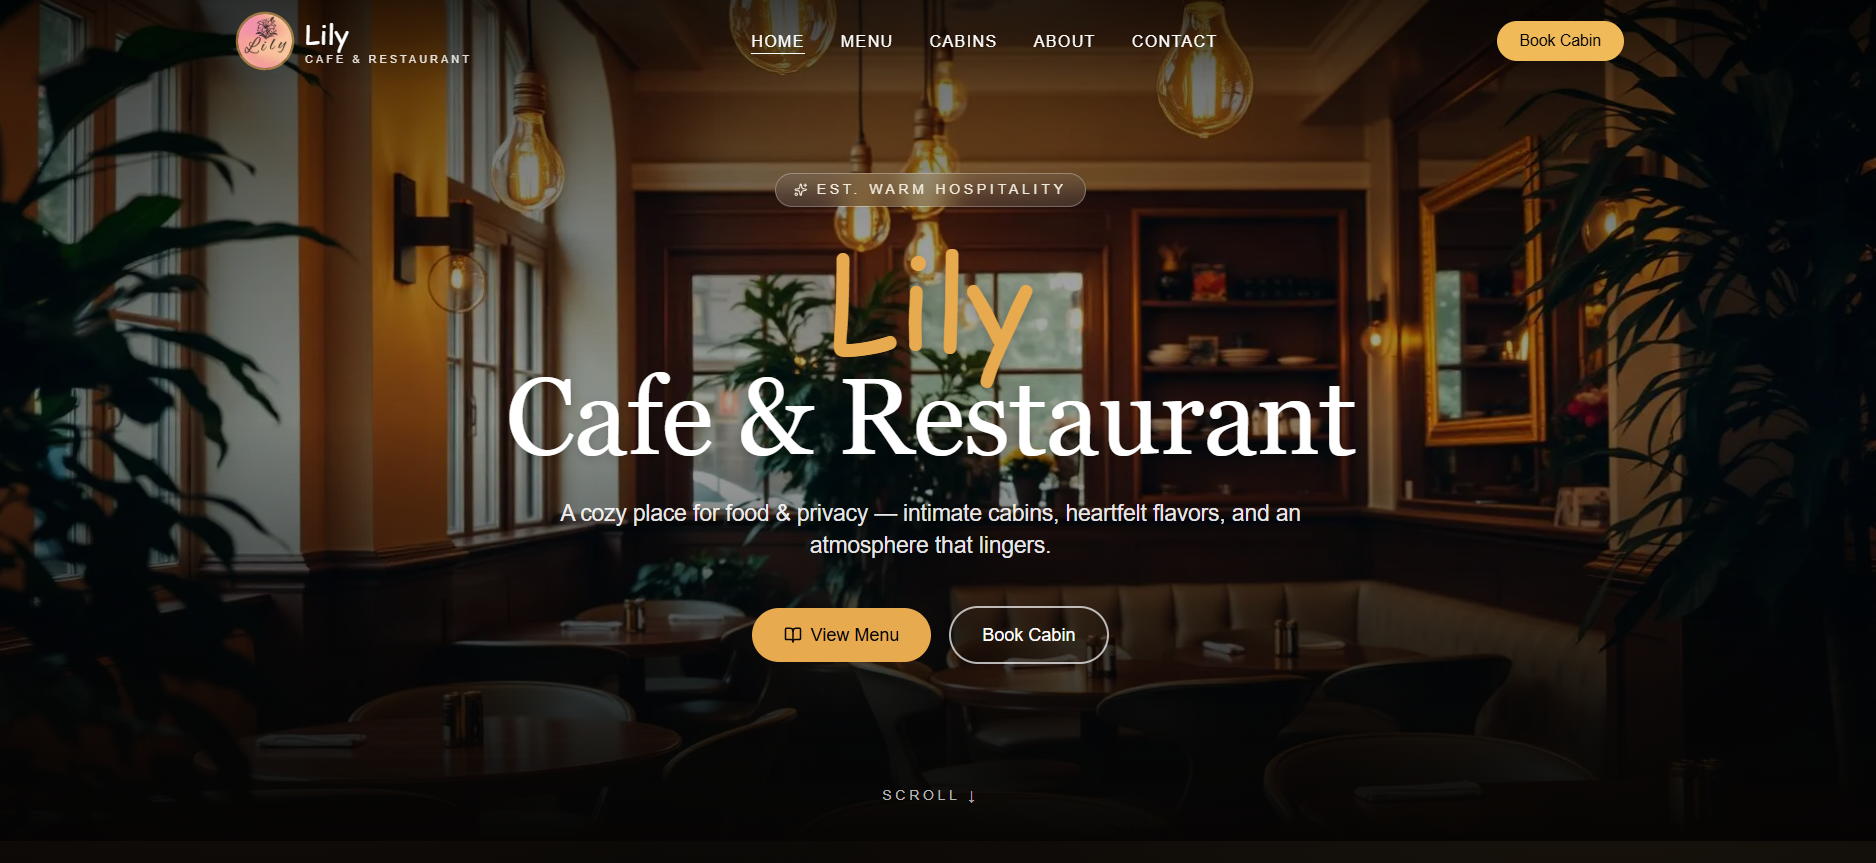
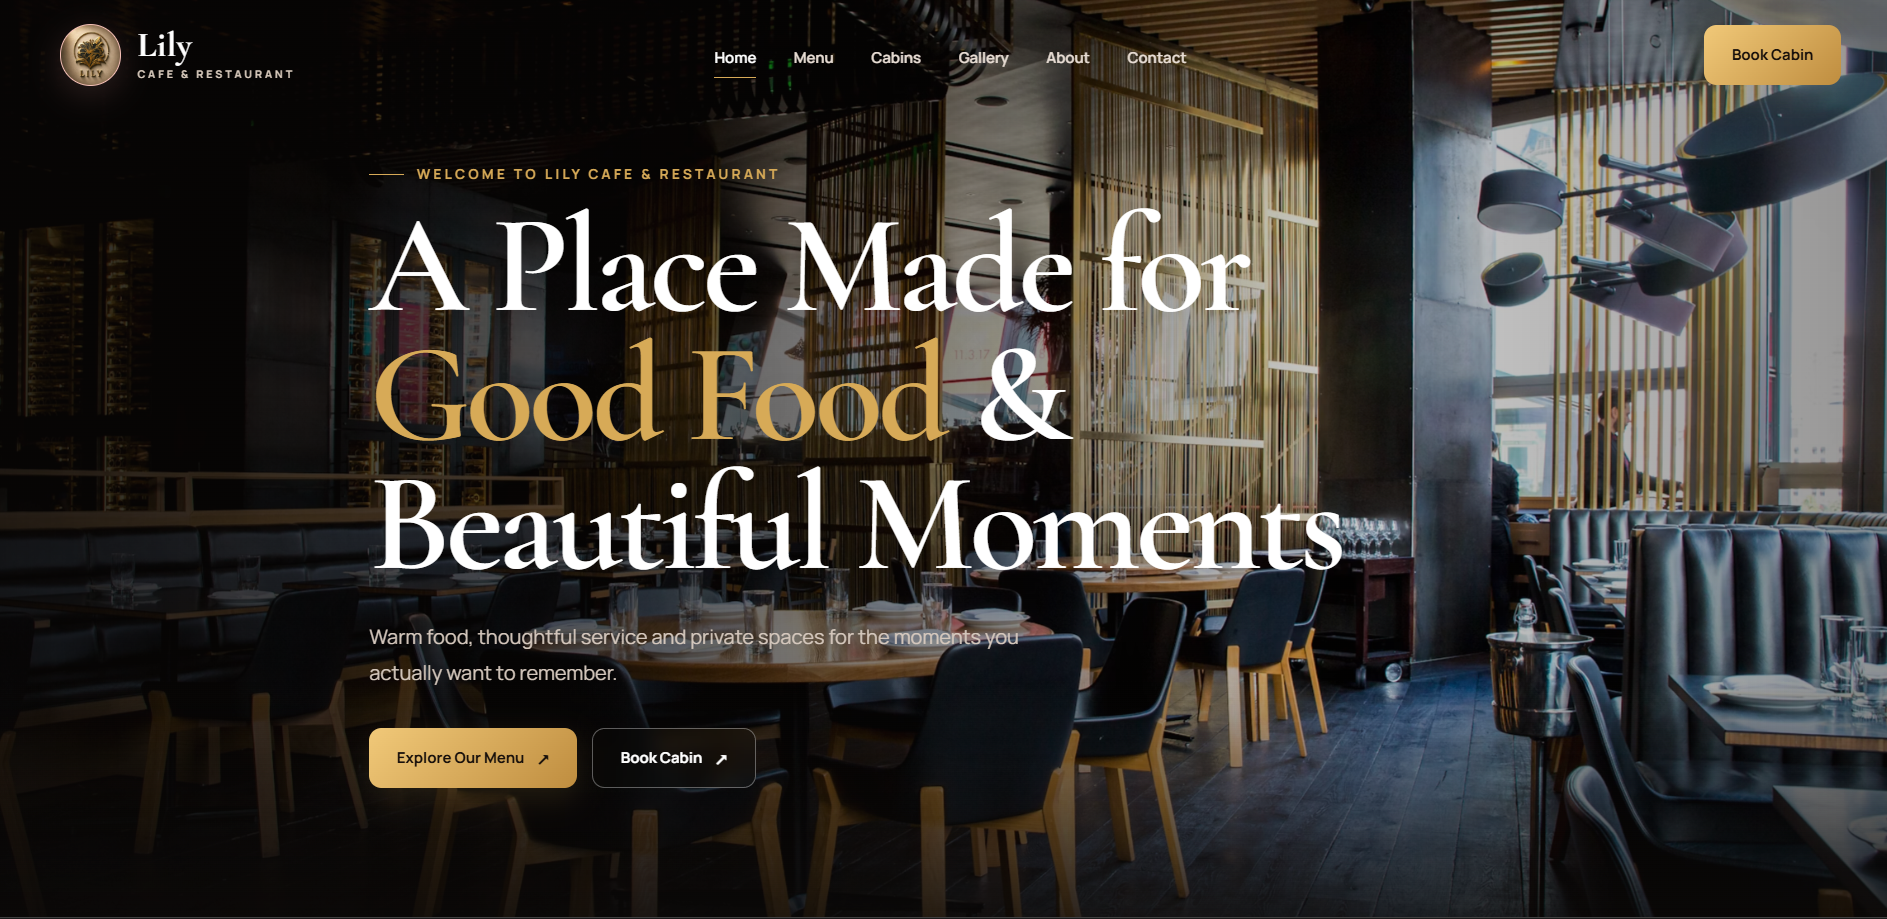
project link

diff --git a/src/main.jsx b/src/main.jsx
@@ -32,7 +32,7 @@ const projects = [
     desc: 'A web platform to find and list rooms for rent in Nepal, built with a modern full-stack workflow.',
     tags: ['React', 'Node.js', 'Express.js', 'MongoDB', 'Tailwind CSS'],
     image: '/gharkhoj.png',
-    link: 'https://gharkhoj.nischal-niraula.com.np/'
+    link: 'https://www.gharkhoj.nischal-niraula.com.np/'
   },
   {
     title: 'Lily Cafe & Restaurant',
@@ -40,7 +40,7 @@ const projects = [
     desc: 'A cozy cafe and restaurant offering great food, warm hospitality, and private cabin booking for a comfortable dining experience.',
     tags: ['React', 'Node.js', 'Express.js', 'MongoDB', 'Tailwind CSS'],
     image: '/lily-cafe.png',
-    link: null
+    link: 'https://www.lilycaferestaurant.nischal-niraula.com.np/'
   },
   {
     title: 'Coming Soon',
@@ -299,7 +299,7 @@ function App() {
           <div className="contact-copy reveal">
             <SectionTitle eyebrow="CONTACT" title="Let’s Work Together" desc="Have a project in mind or just want to say hello? Feel free to reach out!" />
             <div className="contact-list">
-              <a className="contact-email"><span className="contact-icon"><Mail /></span><div className="contact-detail">
+              <a className="contact-email" ><span className="contact-icon"><Mail /></span><div className="contact-detail">
                 <small>Email</small><span>contact@nischal-niraula.com.np</span></div></a>
               <a href="tel:+9779825983379"><span className="contact-icon"><PhoneCall /></span><div className="contact-detail"><small>Phone</small><span>+977 9825983379</span></div></a>
               <div><span className="contact-icon"><MapPin /></span><div className="contact-detail"><small>Location</small><span>Jhapa, Nepal</span></div></div>
